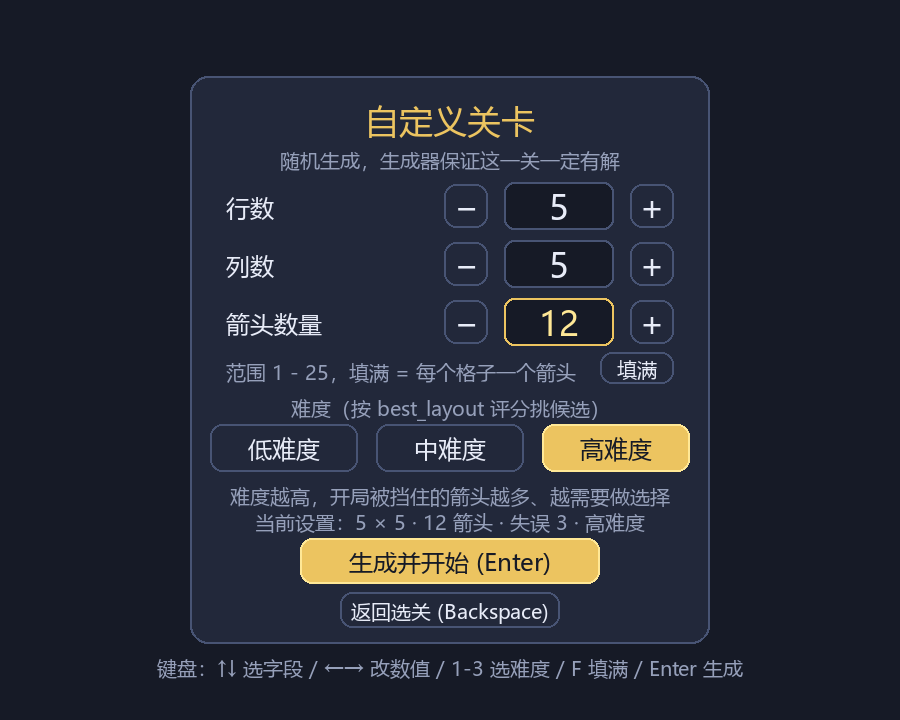
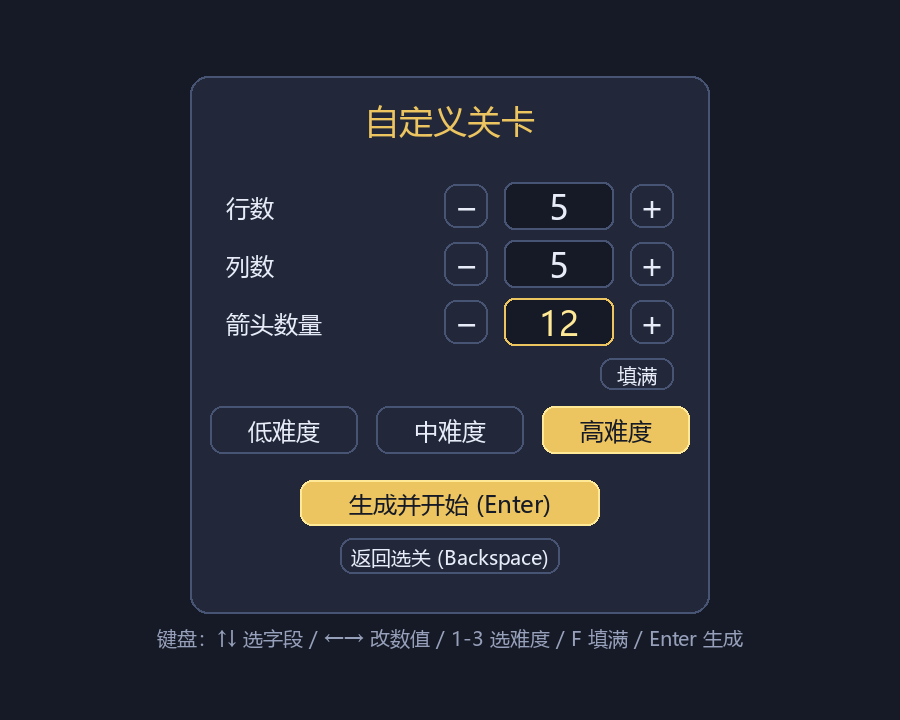
feat: 精简选关与自定义关卡面板的提示文字
- 选关面板的小字说明只保留键盘提示：数字键 1-9 选关 / C 自定义关卡 / L 返回主菜单
- 自定义关卡面板去掉「随机生成」「范围 1-25」「难度（按 best_layout 评分挑候选）」
  与两行难度说明，只留标题、三个步进、填满、难度按钮和底部键盘提示
- 少了四行文字后把面板行距收紧（高度 568 → 538），避免出现空洞
- 同步重新生成选关与自定义面板截图

Changed region(s): [[0.1556, 0.4889, 0.84, 0.9472], [0.3111, 0.2139, 0.6844, 0.2444], [0.2489, 0.4889, 0.3111, 0.55]]

diff --git a/game/ui/screens.py b/game/ui/screens.py
@@ -31,21 +31,18 @@ CUSTOM_BUTTON_HEIGHT = 46
 CUSTOM_BUTTON_GAP = 10
 
 # 「自定义关卡」面板：下面的数值都是相对 CUSTOM_RECT.top 的偏移
-CUSTOM_RECT = pygame.Rect(190, 76, 520, 568)
+CUSTOM_RECT = pygame.Rect(190, 76, 520, 538)
 CUSTOM_FIELD_TOP = 130
 CUSTOM_FIELD_STEP = 58
 CUSTOM_STEPPER_SIZE = 44
 CUSTOM_VALUE_WIDTH = 110
-CUSTOM_ARROWS_HINT_TOP = 292
-DIFFICULTY_LABEL_TOP = 318
-DIFFICULTY_TOP = 348
+CUSTOM_FILL_TOP = 282
+DIFFICULTY_TOP = 330
 DIFFICULTY_WIDTH = 148
 DIFFICULTY_GAP = 18
 DIFFICULTY_BUTTON_HEIGHT = 48
-CUSTOM_HINT_LINE_TOP = 406
-CUSTOM_HINT_LINE_STEP = 26
-CUSTOM_GENERATE_TOP = 462
-CUSTOM_BACK_TOP = 516
+CUSTOM_GENERATE_TOP = 404
+CUSTOM_BACK_TOP = 462
 
 
 class Screen:
@@ -134,7 +131,7 @@ class StartScreen(Screen):
             "填满",
             (
                 CUSTOM_RECT.right - 36 - 74,
-                CUSTOM_RECT.top + CUSTOM_ARROWS_HINT_TOP - 16,
+                CUSTOM_RECT.top + CUSTOM_FILL_TOP,
                 74,
                 32,
             ),
@@ -427,7 +424,7 @@ class StartScreen(Screen):
         )
         theme.draw_text(
             surface,
-            "点击任意一关直接开始，数字键 1 - 9 也可以；最后一行的按钮可以自己造一关",
+            "键盘：数字键 1 - 9 选关 / C 自定义关卡 / L 返回主菜单",
             config.FONT_SIZE_SMALL,
             config.COLOR_TEXT_DIM,
             centerx=LEVEL_SELECT_RECT.centerx,
@@ -461,7 +458,6 @@ class StartScreen(Screen):
 
     def draw_custom_setup(self, surface: pygame.Surface) -> None:
         """自定义关卡面板：地图大小、箭头数量与难度。"""
-        setup = self.session.custom_setup
         pygame.draw.rect(surface, config.COLOR_PANEL, CUSTOM_RECT, border_radius=18)
         pygame.draw.rect(surface, config.COLOR_BORDER, CUSTOM_RECT, width=2, border_radius=18)
         theme.draw_text(
@@ -472,44 +468,8 @@ class StartScreen(Screen):
             centerx=CUSTOM_RECT.centerx,
             top=CUSTOM_RECT.top + 22,
         )
-        theme.draw_text(
-            surface,
-            "随机生成，生成器保证这一关一定有解",
-            config.FONT_SIZE_SMALL,
-            config.COLOR_TEXT_DIM,
-            centerx=CUSTOM_RECT.centerx,
-            top=CUSTOM_RECT.top + 70,
-        )
         for index, field in enumerate(FIELDS):
             self.draw_stepper(surface, field, index)
-        theme.draw_text(
-            surface,
-            f"范围 {setup.min_arrows} - {setup.max_arrows}，填满 = 每个格子一个箭头",
-            config.FONT_SIZE_SMALL,
-            config.COLOR_TEXT_DIM,
-            topleft=(CUSTOM_RECT.left + 36, CUSTOM_RECT.top + CUSTOM_ARROWS_HINT_TOP - 10),
-        )
-        theme.draw_text(
-            surface,
-            "难度（按 best_layout 评分挑候选）",
-            config.FONT_SIZE_SMALL,
-            config.COLOR_TEXT_DIM,
-            centerx=CUSTOM_RECT.centerx,
-            top=CUSTOM_RECT.top + DIFFICULTY_LABEL_TOP,
-        )
-        hints = (
-            "难度越高，开局被挡住的箭头越多、越需要做选择",
-            f"当前设置：{setup.summary()}",
-        )
-        for index, text in enumerate(hints):
-            theme.draw_text(
-                surface,
-                text,
-                config.FONT_SIZE_SMALL,
-                config.COLOR_TEXT_DIM,
-                centerx=CUSTOM_RECT.centerx,
-                top=CUSTOM_RECT.top + CUSTOM_HINT_LINE_TOP + index * CUSTOM_HINT_LINE_STEP,
-            )
         theme.draw_text(
             surface,
             "键盘：↑↓ 选字段 / ←→ 改数值 / 1-3 选难度 / F 填满 / Enter 生成",
